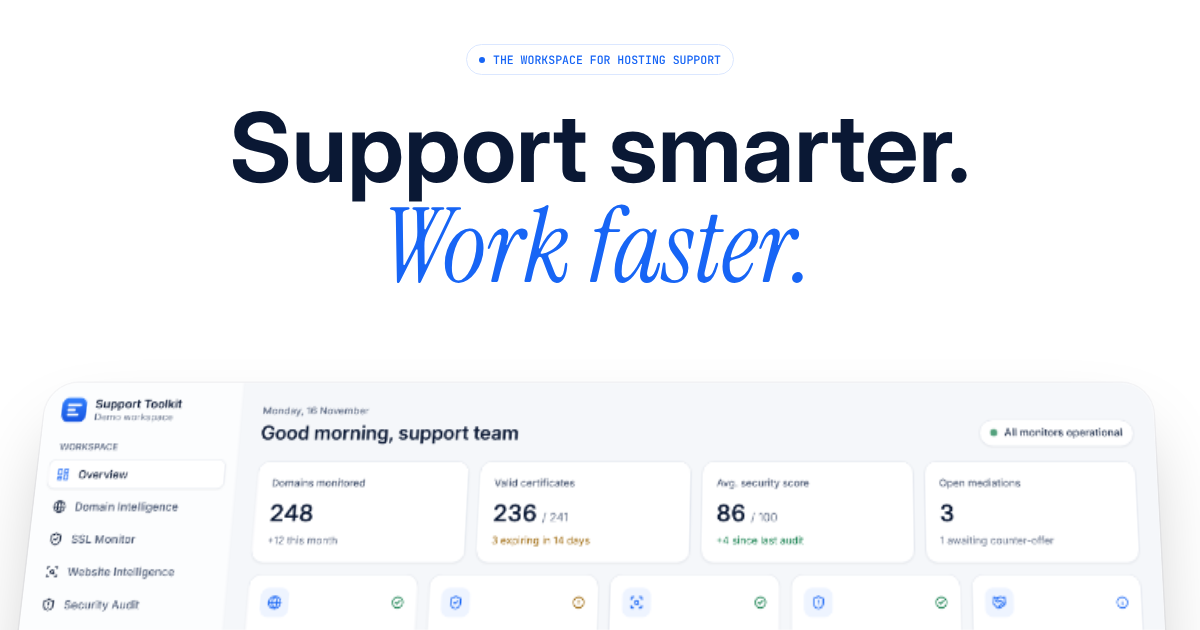
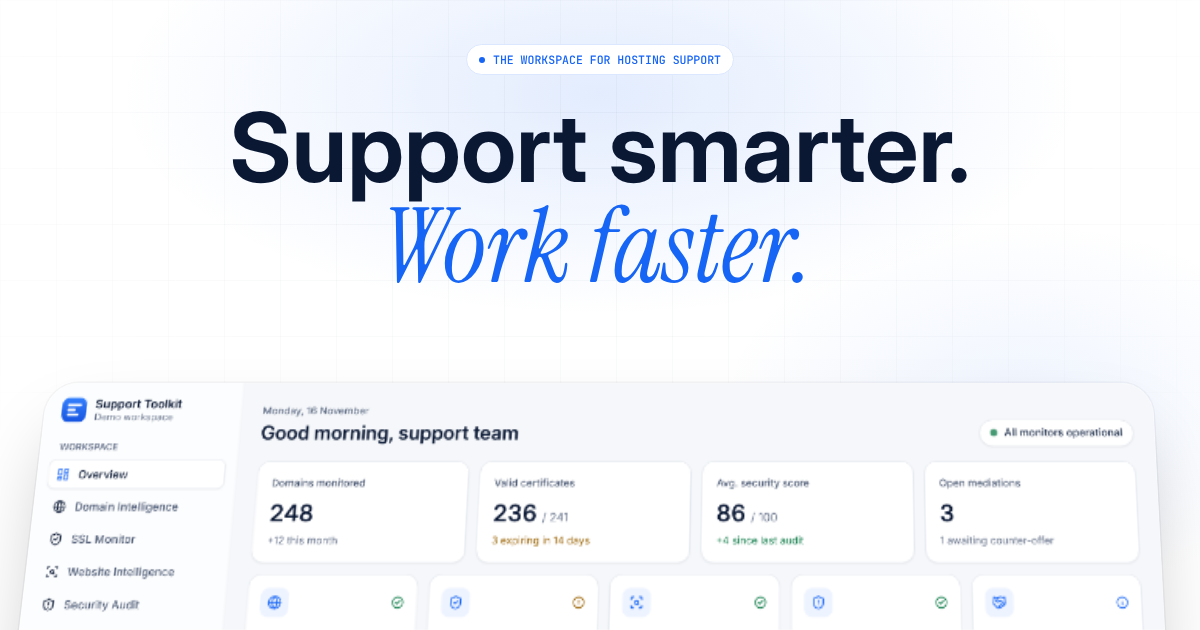
Bring back the hero grid with a soft blue glow
Restores the fading grid backdrop behind the stage (explicitly requested, so a deliberate
exception to baseline-ui's no-gradient rule). It stays static and uses only the blue accent:
the former cyan glow is now blue. Open Graph images regenerated.

Claude-Session: https://claude.ai/code/session_01VXQWGbhBQjSMwFEuKnhvjR

Changed region(s): [[0.4317, 0.1206, 0.555, 0.2111]]

diff --git a/src/components/sections/ScrollStage.tsx b/src/components/sections/ScrollStage.tsx
@@ -295,6 +295,7 @@ export function ScrollStage() {
 
   return (
     <section ref={root} id="top" className="stage relative h-[100svh] overflow-hidden bg-white" aria-labelledby="hero-title">
+      <StageBackdrop />
 
       <div data-hero className="absolute inset-x-0 top-[calc(var(--hdr)+5svh)] z-10">
         <HeroCopy />
@@ -337,3 +338,17 @@ export function ScrollStage() {
   );
 }
 
+/**
+ * Static depth behind the stage: a fading grid with a soft blue glow.
+ * Deliberate exception to baseline-ui's "no gradients" rule, requested explicitly. It never animates
+ * (fixing-motion-performance) and only uses the single blue accent.
+ */
+function StageBackdrop() {
+  return (
+    <div className="pointer-events-none absolute inset-0" aria-hidden>
+      <div className="absolute inset-0 bg-[linear-gradient(to_right,rgb(10_24_52/0.045)_1px,transparent_1px),linear-gradient(to_bottom,rgb(10_24_52/0.045)_1px,transparent_1px)] bg-[size:56px_56px] [mask-image:radial-gradient(ellipse_70%_60%_at_50%_30%,black,transparent)]" />
+      <div className="absolute -top-[20%] left-1/2 h-[70%] w-[80%] -translate-x-1/2 rounded-full bg-[radial-gradient(closest-side,rgb(23_101_245/0.12),transparent)]" />
+      <div className="absolute right-[-10%] top-[35%] h-[60%] w-[50%] rounded-full bg-[radial-gradient(closest-side,rgb(23_101_245/0.07),transparent)]" />
+    </div>
+  );
+}

diff --git a/README.md b/README.md
@@ -107,7 +107,8 @@ The UI follows the [ui-skills](https://github.com/ibelick/ui-skills) rules `base
 - Motion: only `transform`/`opacity` on large surfaces, `will-change` only while the tour is pinned, looping
   animations pause off-screen, no scroll listeners outside GSAP ScrollTrigger.
 
-Deliberate deviations: GSAP stays the animation library (the skills say not to migrate libraries), and the pinned stage
+Deliberate deviations: the hero keeps its fading grid with a soft blue glow (requested explicitly; static, never
+animated), GSAP stays the animation library (the skills say not to migrate libraries), and the pinned stage
 uses `100svh` instead of `h-dvh` so the pin doesn't re-layout when a mobile toolbar shows or hides.
 
 ## Deployment
